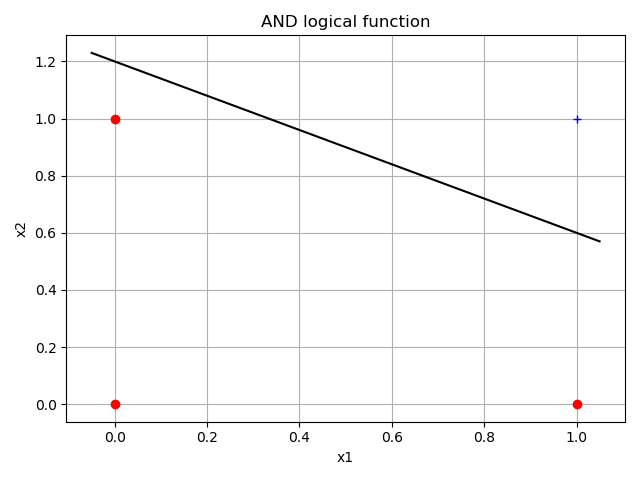
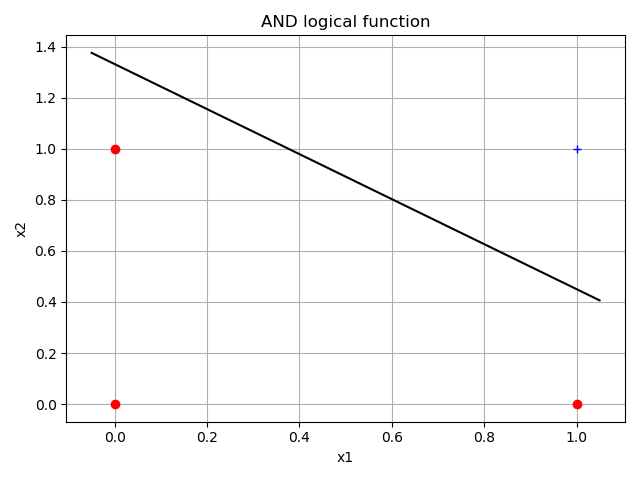
edit T04

diff --git a/T04/separate_xor.py b/T04/separate_xor.py
@@ -2,36 +2,61 @@ import numpy as np
 import matplotlib.pyplot as plt
 from perceptron import Perceptron
 
-# generate data and labels
-data = np.array([[0, 1, 0, 1], [0, 0, 1, 1]])
-y_OR, y_NAND, y_XOR = np.array([0, 1, 1, 1]), np.array([1, 1, 1, 0]), np.array([0, 1, 1, 0])
+# generate input data
+###############################################################################
 
-# plot data
-x0, y0 = data[0, y_XOR == 0], data[1, y_XOR == 0]
-x1, y1 = data[0, y_XOR == 1], data[1, y_XOR == 1]
-plt.plot(x0, y0, 'ro', x1, y1, 'b+')
-plt.xlabel('x1'), plt.ylabel('x2'), plt.grid(True)
-left, right = plt.xlim()
+# generate data
+x1 = np.array([0, 1, 0, 1])
+x2 = np.array([0, 0, 1, 1])
+data = np.vstack([x1, x2])
+
+# generate labels
+y_AND = np.array([0, 0, 0, 1])
+y_NOT_AND = np.array([1, 1, 1, 0])
+y_OR = np.array([0, 1, 1, 1])
+y_XOR = y_OR & y_NOT_AND
+
+# train perceptrons
+###############################################################################
+
+# train perceptron (AND)
+p_AND = Perceptron(2)
+p_AND.train(data, y_AND)
 
 # train perceptron (OR)
-p_OR = Perceptron(2, learning_rate=0.4, weight=np.array([0., 1., 1.]))
+p_OR = Perceptron(2)
 p_OR.train(data, y_OR)
-w, b = p_OR.weight[1:], p_OR.weight[0]
 
-# plot 1st line (OR)
-plt.plot([left, right], [(-w[0]*left-b)/w[1], (-w[0]*right-b)/w[1]], 'k-')
+# train perceptron (NOT_AND)
+p_NOT_AND = Perceptron(2)
+p_NOT_AND.train(data, y_NOT_AND)
 
-# train perceptron (NAND)
-p_NAND = Perceptron(2, learning_rate=0.4, weight=np.array([0., 0.1, 0.1]))
-p_NAND.train(data, y_NAND)
-w, b = p_NAND.weight[1:], p_NAND.weight[0]
+# XOR logical function
+###############################################################################
 
-# plot 2nd line (NAND)
-plt.plot([left, right], [(-w[0]*left-b)/w[1], (-w[0]*right-b)/w[1]], 'k-')
-plt.title('XOR logical function')
+def p_xor_predict(data):  # ANN behavior: XOR prediction
+    a_OR = p_OR.predict(data)
+    a_NOT_AND = p_NOT_AND.predict(data)
+    a = np.vstack([a_OR, a_NOT_AND])
+    return p_AND.predict(a)
+
+# display results
+y_XOR_predicted = p_xor_predict(data)
+print('XOR labels:     ', y_XOR)
+print('XOR prediction: ', y_XOR_predicted)
+
+# plot data
+###############################################################################
+
+# plot XOR data
+plt.plot(x1[y_XOR == 0], x2[y_XOR == 0], 'ro')
+plt.plot(x1[y_XOR == 1], x2[y_XOR == 1], 'b+')
+plt.xlabel('x1'), plt.ylabel('x2'), plt.grid(True), plt.title('XOR logical function')
+
+def plot_separation_line(w, b, style):  # plot separation line
+    left, right = plt.xlim()
+    plt.plot([left, right], [(-w[0]*left-b)/w[1], (-w[0]*right-b)/w[1]], style)
+
+plot_separation_line(p_OR.weight, p_OR.bias, 'k-')
+plot_separation_line(p_NOT_AND.weight, p_NOT_AND.bias, 'k-')
 plt.show()
-
-# display predictions
-for i in range(data.shape[1]):
-    x = data[:, i]
-    print(p_OR.predict(x) & p_NAND.predict(x))

diff --git a/T04/perceptron.py b/T04/perceptron.py
@@ -4,15 +4,18 @@ import numpy as np
 class Perceptron:  # Perceptron class
 
     # Perceptron constructor
-    def __init__(self, n_input, n_ite_max=500, learning_rate=0.01, weight=None):
+    def __init__(self, n_input, n_ite_max=500, learning_rate=0.25, weight=None, bias=None, seed=1):
         self.n_ite_max = n_ite_max  # max number of training iterations
         self.learning_rate = learning_rate  # training learning rate
-        self.weight = weight if weight is not None else np.zeros(n_input+1)  # bias and weights
+
+        np.random.seed(seed)  # lock random seed
+        self.bias = bias if bias is not None else np.random.random()  # bias
+        self.weight = weight if weight is not None else np.random.random(n_input)  # weight
 
     # predict method
     def predict(self, x):
-        z = np.dot(self.weight[1:], x) + self.weight[0]
-        return int(z >= 0)  # return activation
+        z = self.weight @ x + self.bias
+        return (z >= 0).astype(int)  # return activation
 
     # training method
     def train(self, training_input, label):
@@ -22,7 +25,7 @@ class Perceptron:  # Perceptron class
             sum_abs_err = 0
 
             # display bias and weights history
-            print(f'ite: {n_ite:d}, [b, w] = ', self.weight)
+            print(f'ite: {n_ite:d}, b = {self.bias:g}, w = ', self.weight)
 
             # loop on samples (i)
             for i in range(len(label)):
@@ -32,8 +35,8 @@ class Perceptron:  # Perceptron class
                 sum_abs_err += abs(err)
 
                 # update weights and bias
-                self.weight[1:] += self.learning_rate * err * training_input[:, i]
-                self.weight[0] += self.learning_rate * err
+                self.weight += self.learning_rate * err * training_input[:, i]
+                self.bias += self.learning_rate * err
 
             # stop condition
             if sum_abs_err == 0:

diff --git a/T04/separate_and_or.py b/T04/separate_and_or.py
@@ -11,9 +11,9 @@ data = np.vstack([x1, x2])
 
 # generate labels and train perceptron
 y = x1 & x2  # AND
-p = Perceptron(2, learning_rate=0.4, weight=np.array([0., 1., 1.]))
+p = Perceptron(2)
 p.train(data, y)
-w, b = p.weight[1:], p.weight[0]
+w, b = p.weight, p.bias
 
 # plot data
 plt.plot(x1[y == 0], x2[y == 0], 'ro', x1[y == 1], x2[y == 1], 'b+')
@@ -22,14 +22,15 @@ plt.xlabel('x1'), plt.ylabel('x2'), plt.grid(True)
 # plot separation line
 left, right = plt.xlim()
 plt.plot([left, right], [(-w[0]*left-b)/w[1], (-w[0]*right-b)/w[1]], 'k-')
+plt.title('AND logical function')
 
 ######################################################################################
 
 # generate labels and train perceptron
 y = x1 | x2  # OR
-p = Perceptron(2, learning_rate=0.4, weight=np.array([0., 1., 1.]))
+p = Perceptron(2)
 p.train(data, y)
-w, b = p.weight[1:], p.weight[0]
+w, b = p.weight, p.bias
 
 # plot data
 plt.subplots()
@@ -39,4 +40,5 @@ plt.xlabel('x1'), plt.ylabel('x2'), plt.grid(True)
 # plot separation line
 left, right = plt.xlim()
 plt.plot([left, right], [(-w[0]*left-b)/w[1], (-w[0]*right-b)/w[1]], 'k-')
+plt.title('OR logical function')
 plt.show()

diff --git a/T04/separate_random_data.py b/T04/separate_random_data.py
@@ -21,9 +21,9 @@ data = np.vstack([np.hstack([xc, xp]), np.hstack([yc, yp])])
 category = np.hstack([len(xc)*[1], len(xp)*[0]])
 
 # apply perceptron training
-pcpt = Perceptron(2, learning_rate=0.5)
+pcpt = Perceptron(2)
 pcpt.train(data, category)
-w, b = pcpt.weight[1:], pcpt.weight[0]
+w, b = pcpt.weight, pcpt.bias
 
 # plot separation line
 left, right = plt.xlim()

diff --git a/T04/readme.md b/T04/readme.md
@@ -14,5 +14,8 @@ Due Date: Oct 25, 2019
 
 ## Implementar o código de um modelo que executa a função lógica XOR
 - Ver código python: separate_xor.py
+- Ver output do código python
+	- XOR labels:      [0 1 1 0]
+	- XOR prediction:  [0 1 1 0]
 - Ver resultado gráfico: separate_xor.png(figura abaixo)
 [![separate_xor](./separate_xor.png)](./separate_xor.png)
